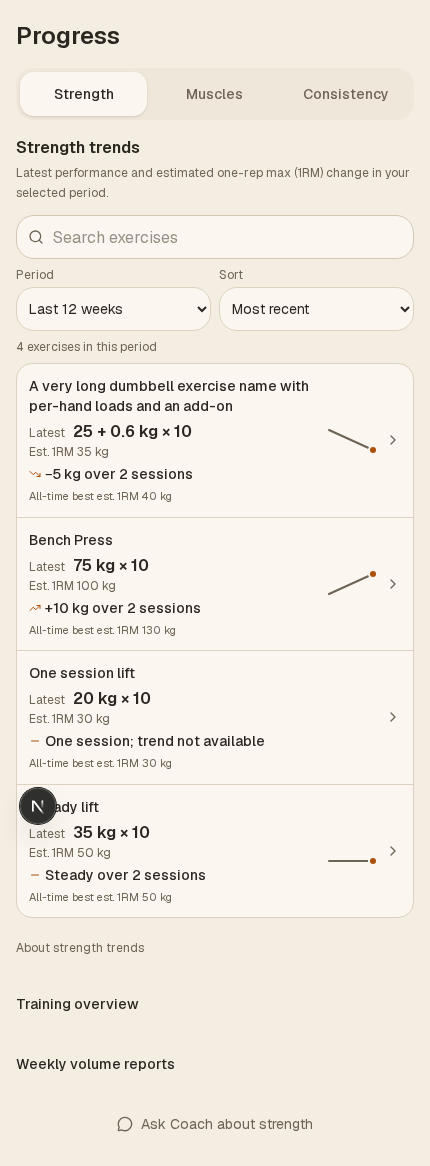
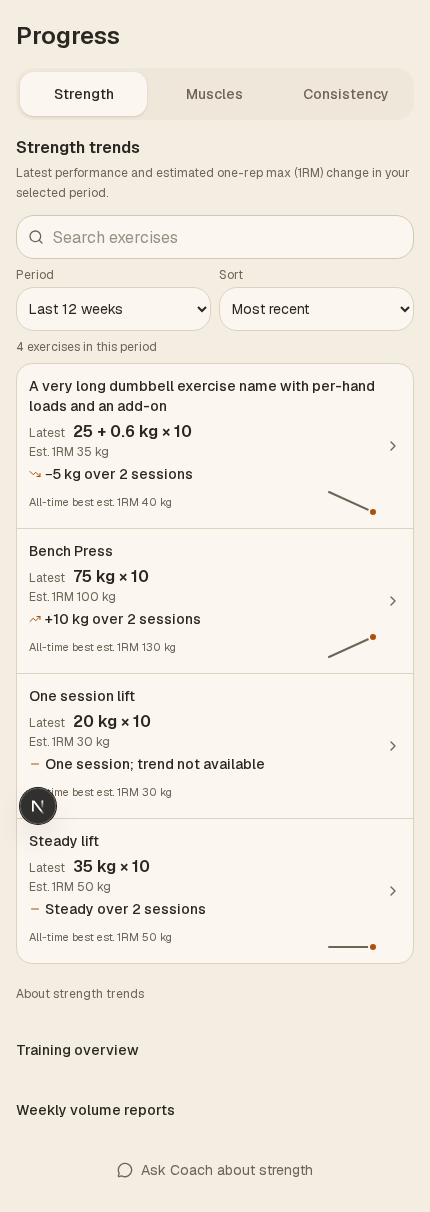
Recover final Strength screenshots after workspace restoration

diff --git a/docs/ui-evidence/phase-2-strength/README.md b/docs/ui-evidence/phase-2-strength/README.md
@@ -1,23 +1,9 @@
 # P2.5: Strength review evidence
 
-## Draft status after workspace failure
-
-The final source is preserved on GitHub, including filters that stack for
-enlarged text and sparklines beside secondary record details. That exact
-patch passed local lint, typecheck, 418 tests, production build and browser
-checks before the workspace became unavailable.
-
-The updated screenshots were generated locally but their upload did not
-finish. The images currently in this directory show the preceding layout
-revision. PR #40 stays draft until the latest screenshots are attached.
-Restore the workspace and publish the captures from local commit 06ba706,
-or rerun the committed ui-strength.cjs harness against the current branch.
-Then update the tracker and remove this draft-status note.
-
-Rechecked the owner's latest merge, e3d8f24 (PR #38), which changes
-documentation only. Resolved its STATUS conflict with the open Consistency
-PR #39, then stacked this item on that review branch. No production records,
-schema changes or training calculations were changed.
+Rechecked the owner's latest merge, e3d8f24 (PR #38). It adds the UI tracker
+and changes documentation only. Resolved its STATUS conflict with the open
+Consistency PR #39, then stacked this item on that review branch. No
+production records, schema changes or training calculations were changed.
 
 ## Result
 
@@ -25,41 +11,60 @@ Strength shows filters and exercise results before supporting activity
 counts. Latest performance and period change are emphasized; all-time best
 is secondary. Training overview preserves the supporting summary below the
 list. About strength trends explains exclusions without treating missing
-estimates as zero progress. Complete performance rows are masked for replay.
+estimates as zero progress. The full performance row is masked for replay.
+
+Before/after at 390 x 844 and checks at 320/430 are committed here. Other
+images show long names, a single-session trend, above-period all-time best,
+empty results, no matches, filters, pounds, method, activity overview,
+optional report failure, offline filtering, initial hydration, large text
+and the three base themes. Filters stack at enlarged text sizes and the
+decorative sparkline stays beside secondary record details, leaving primary
+text readable.
 
 ## Validation
 
-Local checks passed: lint, typecheck, 418 tests and production build.
-Browser checks passed at 320/390/430 px, with long names, pounds, single
-sessions, steady and declining trends, older best versus latest, empty and
-no-match states, optional-report failure, offline filtering, hydration
-placeholders, keyboard controls, enlarged text and three base themes.
-The demo exercise detail link loads successfully.
+- Lint, typecheck, 418 unit tests and production build pass.
+- Browser: latest list appears within the initial viewport; search, period,
+  sort and filter state survive tab changes; clearing filters restores older
+  sessions; supporting disclosures work with keyboard interaction; the real
+  demo exercise detail link loads successfully.
+- 320/390/430 widths, long names and 200% root text fit without horizontal
+  overflow. Touch targets retain at least 44 px; no new motion was added.
+- Pounds and add-on loads retain the existing conversion and formatting.
+- Offline filters work on already-loaded data. An unavailable optional weekly
+  volume report leaves Strength usable. Before-hydration evidence uses a
+  browser with JavaScript disabled to inspect the initial server-rendered
+  placeholders; it does not simulate production latency.
+- Combined Consistency browser regression passes: current targets, missing
+  snapshots, above-target completion, pending/error/offline saves, keyboard
+  use, calendar and retained Strength filters. Its screenshots were written
+  outside tracked evidence to avoid changing the prior PR's artifacts.
+- Unit coverage keeps missing comparisons distinct from steady performance
+  and aligns the arrow/text at the existing 0.05 display threshold.
 
-The combined Consistency regression also passed: current and missing
-targets, above-target completion, pending/error/offline saves, calendar,
-keyboard controls and retained Strength filters.
-
-Run against a local dev server with dummy Supabase values on port 3003:
+Reproduce using a dev server with dummy Supabase values on localhost:3003:
 
 ```bash
 PLAYWRIGHT_BROWSERS_PATH=/tmp/repd-playwright node scripts/feedback-browser/ui-strength.cjs after
 ```
 
 The harness creates a temporary local demo route from the committed fixture
-and removes it on exit. Run browser harnesses sequentially to avoid dev
-watcher refresh loops. No synthetic route is shipped.
+and removes it on exit. Run browser harnesses sequentially; simultaneous
+route creation/removal can make the dev watcher repeatedly refresh pages.
+No synthetic demo route is shipped.
 
 ## Preserved behavior and limits
 
-Filters, three Progress tabs, logging/outbox, SQL metrics, progression,
-kg storage, warm-up exclusions, historical goals, week boundaries, themes,
-navigation and the human-coaching pause are preserved. Physical iOS,
-VoiceOver, hosted AI/email and deployed parity were not verified.
+All filters, three Progress tabs, full set logging, offline outbox, SQL
+metrics, progression, kg storage, warm-up exclusions, historical goals,
+week boundaries, themes, navigation and the coaching pause are preserved.
+Desktop Chromium is not a physical iOS/VoiceOver or hosted-service test.
+Production AI/email delivery and deployed parity were not tested.
 
-Earlier review-branch updates triggered automatic previews before
-cancellation completed. The new ui/review-* convention skips deployment
-while retaining app/database validation. This was verified with a CI run
-whose checks passed and deploy job was skipped. Normal feature previews
-and production releases retain their behavior. No production merge or
-release is part of this handoff. What's new wording still needs approval.
+The existing workflow published automatic previews during earlier review
+branch updates, despite cancellation attempts. This PR fixes that for
+`ui/review-*` branches: all checks run while the deploy job is skipped.
+Normal feature previews and production deployment behavior are unchanged.
+Workflow YAML parses successfully; the PR's CI run verifies the new branch
+condition. No production release or merge is part of this handoff.
+What's new wording remains subject to owner approval.

diff --git a/docs/UI-PLAN.md b/docs/UI-PLAN.md
@@ -16,7 +16,7 @@ Last updated: 2026-11-04.
 | P2.2 History list | Live | #33 (7684faf) | One set of recap labels, active filter summary |
 | P2.3 Workout recap | Live | #35 (53ed6d4) | Session results first; map kept visible but smaller (Aman wanted it beside the analysis) |
 | P2.4 Weekly analysis | Live | #32 (c12326b) | Takeaway and Next focus first, four clear states |
-| P2.5 Progress: Strength | Draft, evidence pending | #40 | Final source saved; latest screenshots need workspace recovery |
+| P2.5 Progress: Strength | In review | #40 | Latest/period changes first; evidence `ui-evidence/phase-2-strength` |
 | P2.6 Progress: Muscles | Next | | |
 | P2.7 Progress: Consistency | In review | #39 | Evidence `ui-evidence/phase-2-consistency`; not merged |
 | P2.8 Weekly volume reports | Live | #37 (94eeeab) | Plain counted wording, one rounded volume format |

diff --git a/DECISIONS.md b/DECISIONS.md
@@ -1854,7 +1854,9 @@ load/rep estimates are not zero progress. Keep filtering, sort, periods,
 SQL metrics, kg storage and week boundaries unchanged. Align the trend arrow
 with the existing 0.05 display threshold, including exact boundary values.
 Mask complete performance rows for replay privacy. Tabs and summary cards
-reflow at larger text sizes without shrinking touch targets.
+reflow at larger text sizes without shrinking touch targets. Filters stack
+and sparklines stay with secondary record details so larger text retains
+space for readable exercise names and performance.
 
 A review-only handoff must not race automatic preview jobs. The existing
 workflow published previews during earlier branch updates before cancellation

diff --git a/docs/STATUS.md b/docs/STATUS.md
@@ -10,7 +10,7 @@ Last updated: 2026-11-04.
 
 - 2026-11-04: Rechecked the PR #38 tracker merge at e3d8f24 and resolved
   its STATUS overlap with the still-open Consistency PR #39. Branch
-  `ui/review-phase-2-strength` implements P2.5: exercise results appear
+  `ui/review-phase-2-strength` (PR #40) implements P2.5: exercise results appear
   sooner, latest performance and period changes lead, activity summary
   moves behind Training overview, and metric exclusions stay accessible.
   Strength and combined Consistency browser checks pass at 320/390/430,
